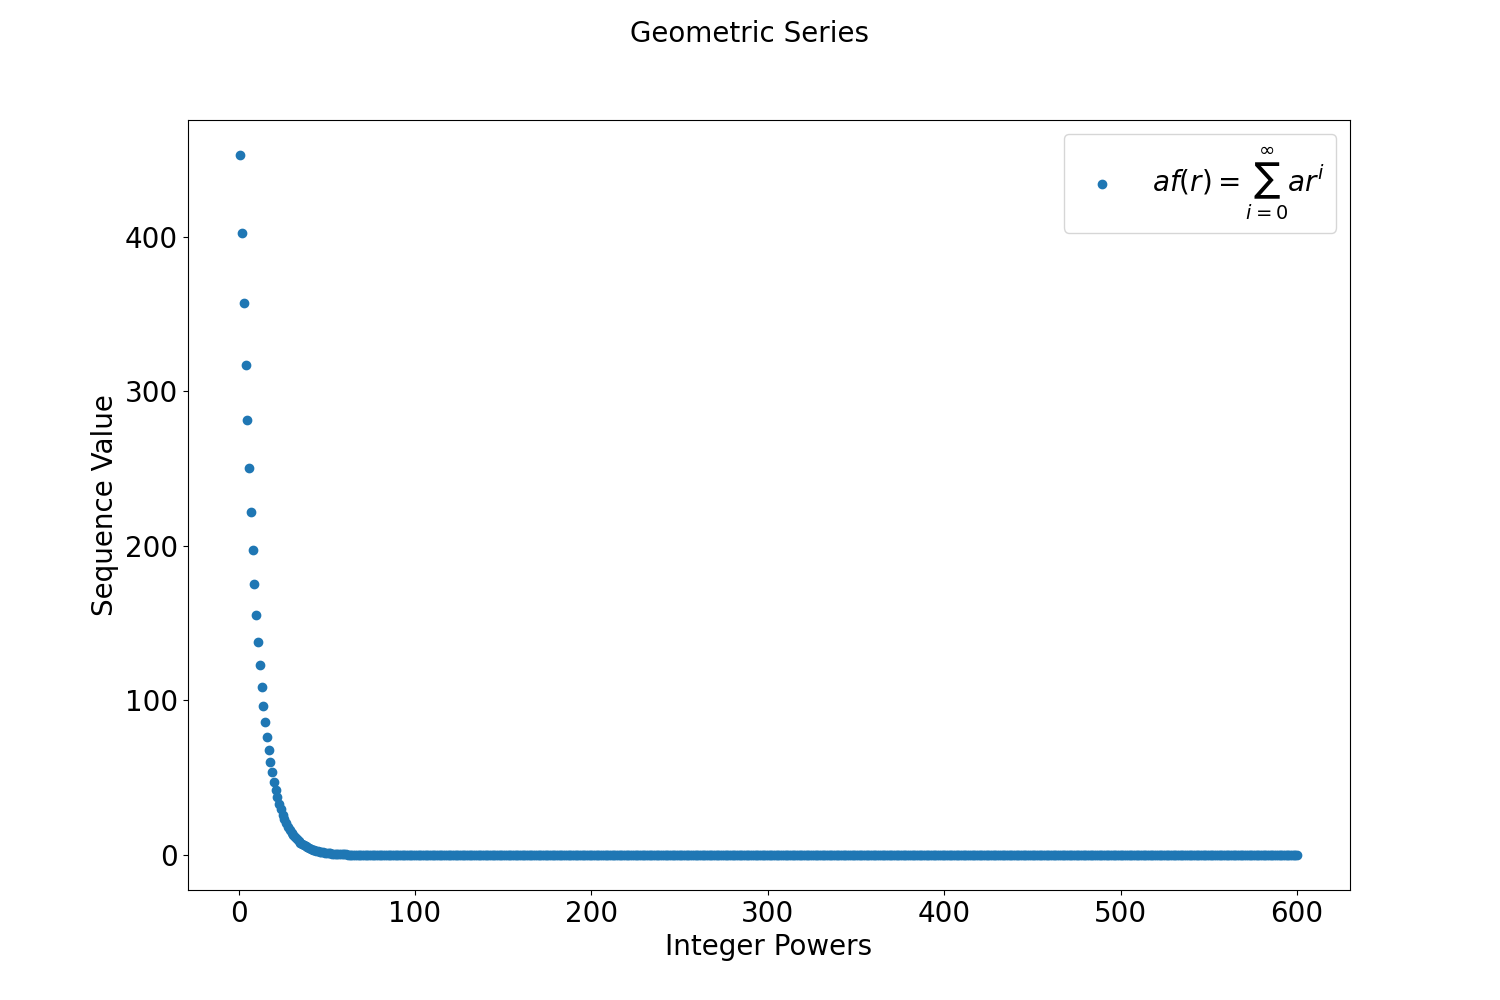
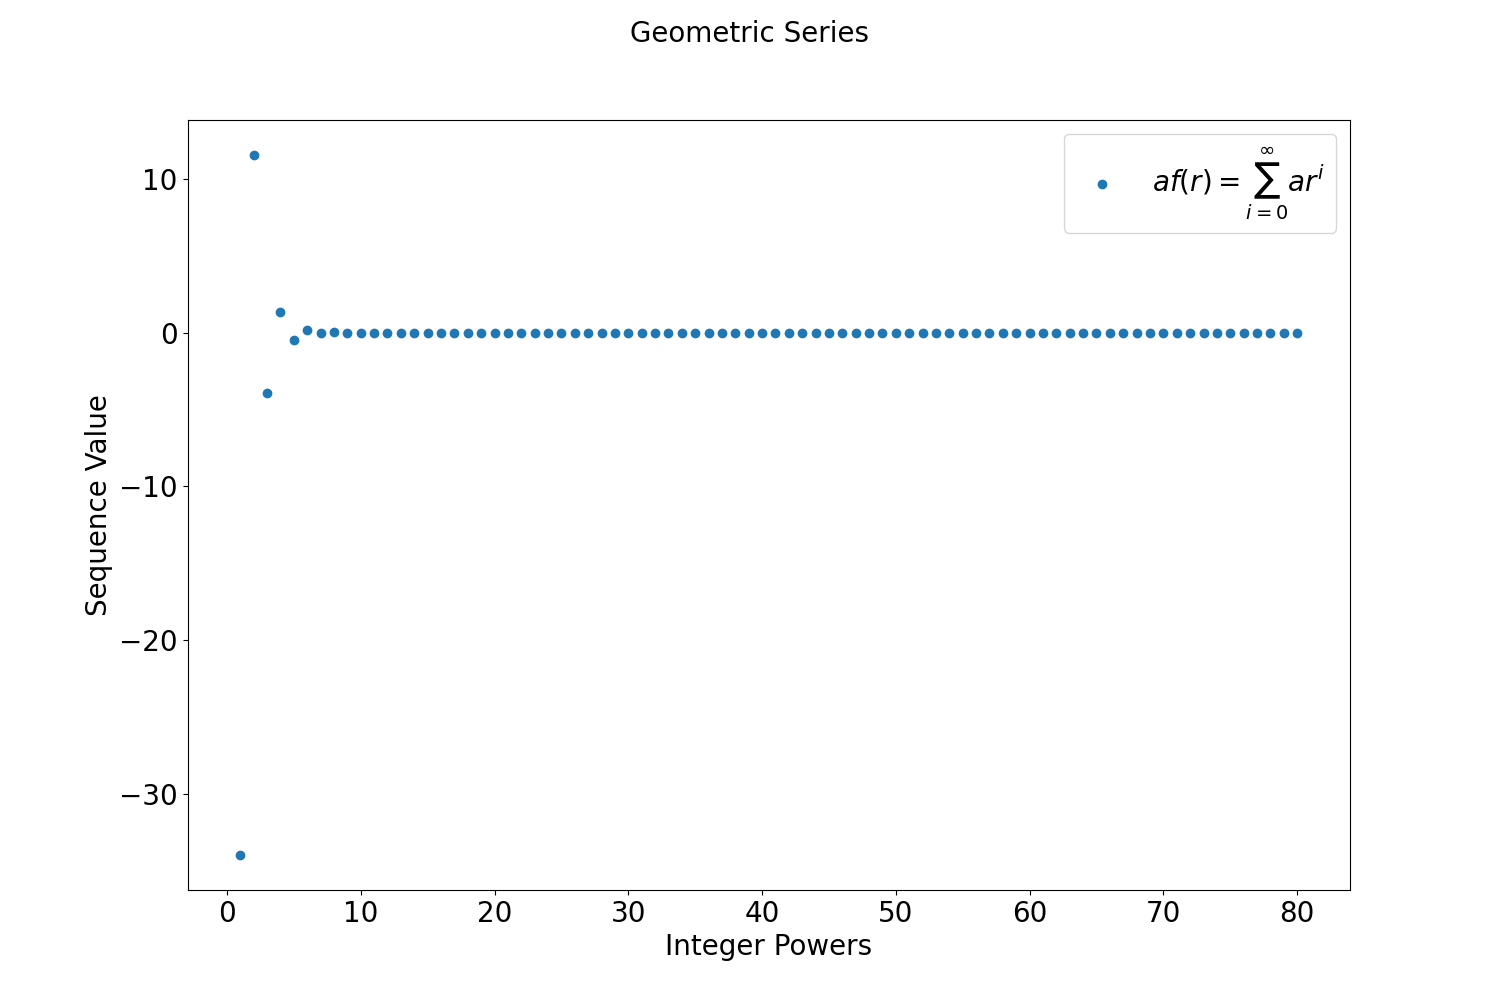
adding better error handling for the geometric series object; making user interactivity smoother

diff --git a/app/templates/geometric.html b/app/templates/geometric.html
@@ -19,6 +19,20 @@
 			{% endfor %}
 		</p>
 		<p>
+			{{ form.epsilon.label }}<br>
+			{{ form.epsilon(size=32) }}<br>
+			{% for error in form.epsilon.errors %}
+			<span style='color: red;'>[{{ error }}]</span>
+			{% endfor %}
+		</p>
+		<p>
+			{{ form.large_m.label }}<br>
+			{{ form.large_m(size=32) }}<br>
+			{% for error in form.large_m.errors %}
+			<span style='color: red;'>[{{ error }}]</span>
+			{% endfor %}
+		</p>
+		<p>
 			{{ form.submit() }}
 		</p>
 	</form>

diff --git a/app/templates/index.html b/app/templates/index.html
@@ -2,11 +2,8 @@
 
 {% block content %}
 	<h1>Welcome to MassiveDiscipline</h1>
-	<h2>Choose which sort of function you wish to work with</h2>
-	<form action='' method='post' novalidate>
-		{{ form.hidden_tag() }}
-		<p>
-			{{ form.submit() }}
-		</p>
-	</form>
+	<h2>Choose which object you wish to work with</h2>
+	<div>
+		<a href='{{ url_for("geometric") }}'>Geometric Series</a>
+	</div>
 {% endblock %}

diff --git a/app/templates/base.html b/app/templates/base.html
@@ -10,7 +10,6 @@
 	<body>
 		<div>
 			<a href='{{ url_for("index") }}'>Home</a>
-			<a href='{{ url_for("geometric") }}'>Graphs</a>
 		</div>
 		<hr>
 		{% with messages = get_flashed_messages() %}

diff --git a/app/geometric_processing.py b/app/geometric_processing.py
@@ -11,15 +11,11 @@ class Geometric():
         pass
         
         
-    def graph(self, r, a):
+    def graph(self, r, a, epsilon, large_m):
         
         
-        # Choosing epsilon and number of partial of sum terms
-        epsilon = 0.00001
-        m = 300
-        
-        # We will plot the powers list as our domain, and we will plot the results
-        # list as our range
+        # We will plot the powers list as our domain, and we will plot the
+        # results list as our range
         results = []
         powers = []
     
@@ -40,26 +36,26 @@ class Geometric():
         results.append(np.nan)
     
     
-        # This loop will fill our powers and results lists until the if conditional
-        # within evaluates to True.
+        # This loop will fill our powers and results lists until the if
+        # conditional within evaluates to True.
         # The conditions in the first if statement below are not
         # a set of conditions necessary for the mathematical function,
         # but rather a set of conditions necessary to accomodate the author's
-        # inability to produce an alternative for comparing a sum of the function's
-        # terms with the chosen epsilon.
-        # --------------------------------------------------------------------------
+        # inability to produce an alternative for comparing a sum of the
+        # function's terms with the chosen epsilon.
+        # ----------------------------------------------------------------------
         # Example to motivate the first if statement:
-        # if power!=0 and power-m!=0 and 'power%m==0'
-        # Let m=10 and power=20.
+        # if power!=0 and power-large_m!=0 and power%large_m==0
+        # Let large_m=10 and power=20.
         # if 20 is not 0 (check)
         # and if 20 minus 10 is not 0 (check)
         # and if 20 in base 10 is 0 (check)
-        # --------------------------------------------------------------------------
+        # ----------------------------------------------------------------------
         flag = True
         while flag:
             curr_result = a*r**(power)
-            if power!=0 and power-m!=0 and power%m==0:
-                if abs(sum(results[power-m:power-1])) < epsilon:
+            if power!=0 and power-large_m!=0 and power%large_m==0:
+                if abs(sum(results[power-large_m:power-1])) < epsilon:
                     flag = False
                     continue
             results.append(curr_result)
@@ -68,8 +64,8 @@ class Geometric():
             powers.append(power)
         
         
-        # The statements below will plot the powers and results list that we have
-        # from the above while loop, completing the graph of our function
+        # The statements below will plot the powers and results list that we
+        # have from the above while loop, completing the graph of our function
         fig, ax = plt.subplots(figsize=(15, 10))
         ax.scatter(powers, results, label=r'$af(r)=\sum_{i=0}^{\infty}ar^i$')
         plt.xlabel('Integer Powers', fontsize=20)

diff --git a/app/routes.py b/app/routes.py
@@ -5,15 +5,9 @@ from app.geometric_processing import Geometric
 
 
 @app.route('/')
-@app.route('/index', methods=['GET', 'POST'])
+@app.route('/index')
 def index():
-    geometric = ChooseFunction()
-    
-    if geometric.validate_on_submit():
-        
-        return redirect(url_for('geometric'))
-    
-    return render_template('index.html', title='MassiveDiscipline', form=geometric)
+    return render_template('index.html', title='MassiveDiscipline')
 
 
 @app.route('/geometric', methods=['GET', 'POST'])
@@ -22,15 +16,18 @@ def geometric():
     
     if form.validate_on_submit():
         
-        flash('Base: {}, Scalar: {}'\
-        .format(form.base.data, form.scalar.data))
+        flash('Base: {}, Scalar: {}, epsilon: {}, Large m: {}'\
+        .format(form.base.data, form.scalar.data, form.epsilon.data,\
+        form.large_m.data))
         
         geo = Geometric()
-        geo.graph(form.base.data, form.scalar.data)
+        geo.graph(form.base.data, form.scalar.data, form.epsilon.data,\
+        form.large_m.data)
         
         return redirect(url_for('graph_results'))
     
-    return render_template('geometric.html', title='Graphs', form=form)
+    return render_template('geometric.html', title='Geometric Series',\
+    form=form)
 
 
 @app.route('/graph_results')

diff --git a/app/forms.py b/app/forms.py
@@ -1,13 +1,17 @@
 from flask_wtf import FlaskForm
-from wtforms import FloatField, SubmitField
-from wtforms.validators import DataRequired
-    
-
-class ChooseFunction(FlaskForm):
-    submit = SubmitField('geometric')
+from wtforms import FloatField, SubmitField, IntegerField
+from wtforms.validators import DataRequired, NumberRange
     
     
 class GeometricForm(FlaskForm):
-    base = FloatField('Base', validators=[DataRequired()])
-    scalar = FloatField('Scalar', validators=[DataRequired()])
+    base = FloatField('Choose a base "r" between -0.99 and 0.99 inclusive',\
+    validators=[DataRequired(),\
+    NumberRange(-0.99, 0.99)])
+    scalar = FloatField('Choose a real scalar "a" between -1000 and 1000'\
+    'inclusive', validators=[DataRequired(), NumberRange(-1000, 1000)])
+    epsilon = FloatField('Choose an epsilon between 0.00001 and 1 inclusive',\
+    validators=[DataRequired(),\
+    NumberRange(0.00001, 1)])
+    large_m = IntegerField('Choose a large integer "m" between 1 and 1000'\
+    'inclusive', validators=[DataRequired(), NumberRange(1, 1000)])
     submit = SubmitField('Show Graph')
